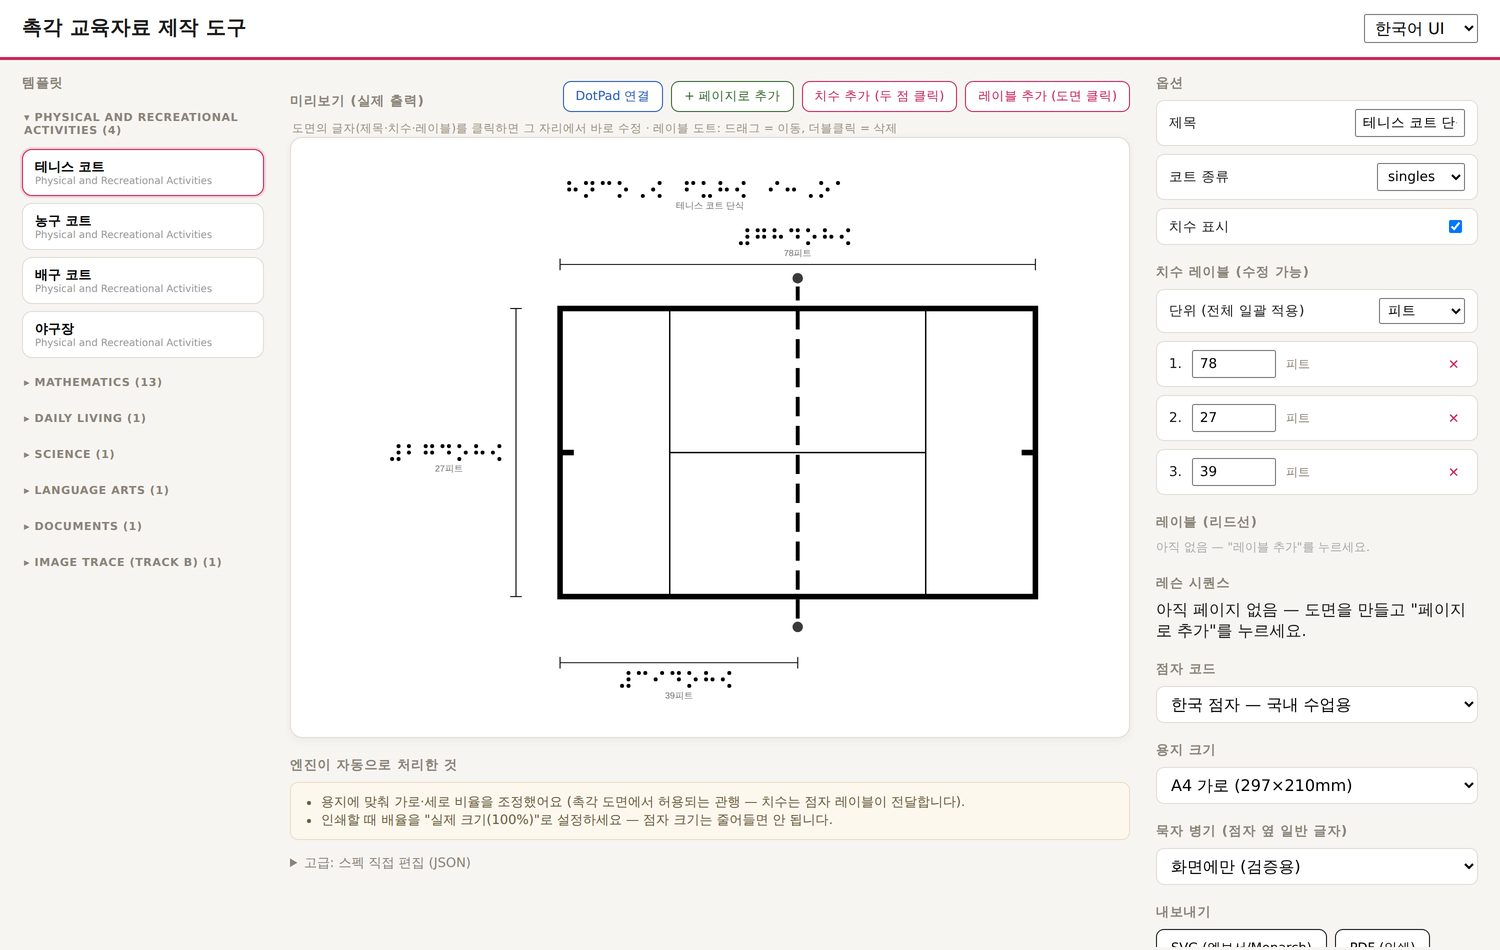
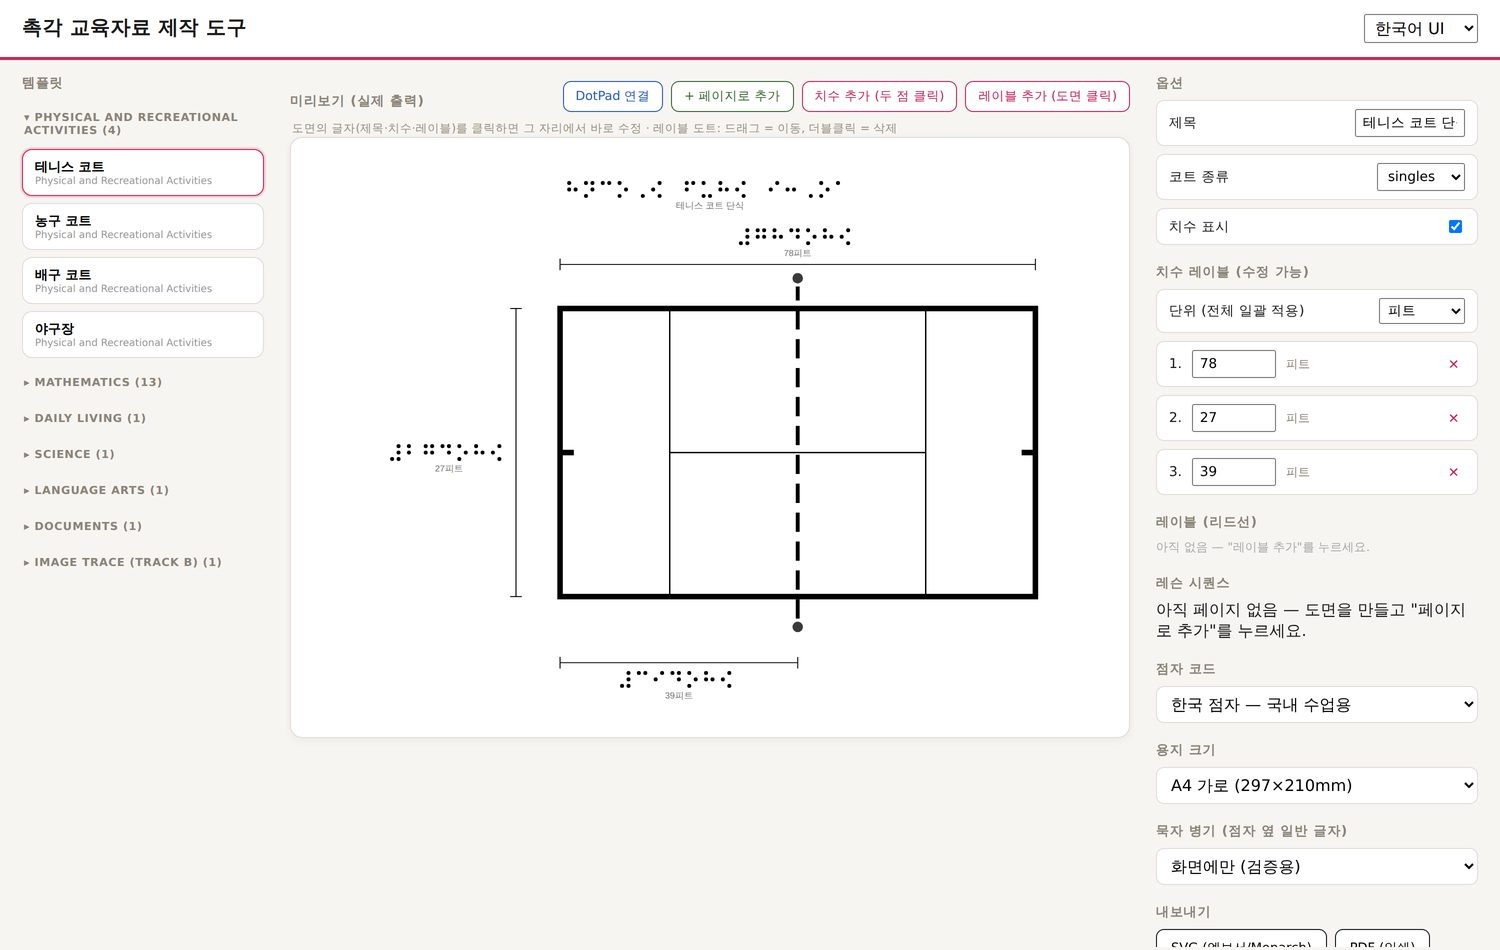
UI 정리 — 보고서·JSON 편집 패널 숨김, 문서 변환기 드래그&드롭
"엔진이 자동으로 처리한 것"과 "고급: 스펙 직접 편집(JSON)"을 화면에서 제거(내부 상태 저장소와 자동화 검증용으로 DOM에는 숨겨 유지 — 내보내기·테스트 경로 무변경). 점자 문서 변환기는 미리보기에 PDF·Word·JSON 파일을 끌어다 놓으면 바로 변환된다(파란 점선 하이라이트, 다른 템플릿에서는 비활성). 가이드 KO/EN 캡처를 새 화면으로 갱신, test/ui-cleanup-check.js 추가.

Claude-Session: https://claude.ai/code/session_016zMazn2pgWpep9VoyYXci8

Changed region(s): [[0.184, 0.7937, 0.644, 0.9158]]

diff --git a/app/app.js b/app/app.js
@@ -62,7 +62,8 @@
       printTip: 'When printing: set scale to "Actual size (100%)" — braille size must not shrink.',
       loaded: 'Loaded spec file — template options are disabled; labels & exports still work.',
       rbUpload: 'Rulebook JSON', rbSample: 'Load built-in sample (Arabic, 709 symbols)',
-      rbLoaded: 'Loaded: ', rbHint: 'Upload a table-format rulebook (PDF, Word, or verified JSON) → UEB-style narrative document. Braille is selectable text (embedded font). For HWP files: open in Hangul → Save As → Word (.docx), then upload.',
+      rbLoaded: 'Loaded: ', rbHint: 'Drag a table-format rulebook here (PDF, Word, or verified JSON) — or use the file picker on the right. → UEB-style narrative document with selectable braille text (embedded font). For HWP files: open in Hangul → Save As → Word (.docx) first.',
+      rbDropType: 'Only .pdf, .docx, or .json files can be converted.',
       docx: 'Word (.docx)',
       ebrl: 'eBraille (.ebrl)',
       dpBtn: 'Connect DotPad', dpConnected: 'DotPad ● {n}',
@@ -104,7 +105,8 @@
       printTip: '인쇄할 때 배율을 "실제 크기(100%)"로 설정하세요 — 점자 크기는 줄어들면 안 됩니다.',
       loaded: '스펙 파일을 불러왔습니다 — 템플릿 옵션은 비활성, 레이블·내보내기는 그대로 사용 가능.',
       rbUpload: '규정집 JSON', rbSample: '내장 샘플 불러오기 (아랍어 709 기호)',
-      rbLoaded: '불러옴: ', rbHint: '표 형식 규정집(PDF·Word·검증된 JSON) → UEB 스타일 서술형 문서. 점자는 선택·복사 가능한 텍스트(폰트 내장). hwp는 한글에서 "다른 이름으로 저장 → Word(.docx)" 후 업로드하세요.',
+      rbLoaded: '불러옴: ', rbHint: '표 형식 규정집(PDF·Word·검증된 JSON)을 여기에 끌어다 놓으세요 — 오른쪽 파일 선택으로도 됩니다. → UEB 스타일 서술형 문서로 변환되며, 점자는 선택·복사 가능한 텍스트입니다(폰트 내장). hwp는 한글에서 "다른 이름으로 저장 → Word(.docx)" 후 올리세요.',
+      rbDropType: 'PDF·Word(.docx)·JSON 파일만 변환할 수 있습니다.',
       docx: 'Word (.docx)',
       ebrl: 'eBraille (.ebrl)',
       dpBtn: 'DotPad 연결', dpConnected: 'DotPad ● {n}대',
@@ -177,6 +179,27 @@
     $('#preview').addEventListener('click', onPreviewClick);
     $('#preview').addEventListener('dblclick', onPreviewDblClick);
     $('#preview').addEventListener('mousedown', onDragStart);
+    // 문서 변환기: 미리보기에 파일을 끌어다 놓으면 바로 변환 (PDF·Word·JSON)
+    ['dragover', 'dragenter'].forEach(function (ev) {
+      $('#preview').addEventListener(ev, function (e) {
+        if (state.tpl !== RULEBOOK_TPL) return;
+        e.preventDefault(); e.stopPropagation();
+        e.dataTransfer.dropEffect = 'copy';
+        $('#preview').classList.add('dropping');
+      });
+    });
+    ['dragleave', 'dragend'].forEach(function (ev) {
+      $('#preview').addEventListener(ev, function () { $('#preview').classList.remove('dropping'); });
+    });
+    $('#preview').addEventListener('drop', function (e) {
+      if (state.tpl !== RULEBOOK_TPL) return;
+      e.preventDefault(); e.stopPropagation();
+      $('#preview').classList.remove('dropping');
+      var f = e.dataTransfer.files && e.dataTransfer.files[0];
+      if (!f) return;
+      if (!/\.(json|pdf|docx)$/i.test(f.name)) { alert(t('rbDropType')); return; }
+      rbHandleFile(f);
+    });
     window.addEventListener('mousemove', onDragMove);
     window.addEventListener('mouseup', onDragEnd);
     window.addEventListener('resize', function () { dpOverlay(); });
@@ -684,17 +707,7 @@
       var rf = document.createElement('input'); rf.type = 'file';
       rf.accept = '.json,.pdf,.docx,application/json,application/pdf';
       rf.addEventListener('change', function (ev) {
-        var file = ev.target.files[0]; if (!file) return;
-        var lower = file.name.toLowerCase();
-        state.rbFixes = {}; state.rbFixId = null;
-        if (lower.endsWith('.pdf')) return loadRbPdf(file);
-        if (lower.endsWith('.docx')) return loadRbDocx(file);
-        var fr = new FileReader();
-        fr.onload = function () {
-          try { state.rbData = JSON.parse(fr.result); state.rbName = file.name; state.rbParseReport = null; update(); }
-          catch (e) { alert('JSON error: ' + e.message); }
-        };
-        fr.readAsText(file);
+        if (ev.target.files[0]) rbHandleFile(ev.target.files[0]);
       });
       ru.appendChild(rf); f.appendChild(ru);
       if (typeof window !== 'undefined' && window.RB_SAMPLE) {
@@ -799,6 +812,20 @@
   }
 
   /* PDF → 텍스트 아이템(x,y,w) → 파서 (파싱은 베타: 리포트로 검토 유도) */
+  /* 규정집 파일 공통 처리 — 파일 선택 창과 미리보기 드래그&드롭이 같은 경로를 쓴다 */
+  function rbHandleFile(file) {
+    var lower = file.name.toLowerCase();
+    state.rbFixes = {}; state.rbFixId = null;
+    if (lower.endsWith('.pdf')) return loadRbPdf(file);
+    if (lower.endsWith('.docx')) return loadRbDocx(file);
+    var fr = new FileReader();
+    fr.onload = function () {
+      try { state.rbData = JSON.parse(fr.result); state.rbName = file.name; state.rbParseReport = null; update(); }
+      catch (e) { alert('JSON error: ' + e.message); }
+    };
+    fr.readAsText(file);
+  }
+
   function loadRbPdf(file) {
     var fr = new FileReader();
     fr.onload = function () {

diff --git a/test/ui-cleanup-check.js b/test/ui-cleanup-check.js
@@ -1,0 +1,72 @@
+/* UI 정리 검증: 개발자용 패널 숨김 + 문서 변환기 드래그&드롭 */
+const path = require('path');
+const { chromium } = require('/home/claude/.npm-global/lib/node_modules/playwright');
+const DIST = 'file://' + path.resolve(__dirname, '../dist/tactile-material-maker-ko.html');
+
+let pass = 0, fail = 0;
+const ok = (n, c, x) => { if (c) { pass++; console.log('  ✔', n); } else { fail++; console.log('  ✘', n, x !== undefined ? '→ ' + x : ''); } };
+const sleep = ms => new Promise(r => setTimeout(r, ms));
+
+(async () => {
+  const browser = await chromium.launch();
+  const page = await browser.newPage({ viewport: { width: 1500, height: 950 } });
+  page.on('pageerror', e => console.log('  [pageerror]', e.message));
+  await page.goto(DIST);
+  await page.waitForSelector('#gallery .gcat');
+  await sleep(500);
+
+  // 1. 보고서·JSON 편집 패널이 화면에서 보이지 않는다 (내부 상태 저장용으로만 존재)
+  const hidden = await page.evaluate(() => {
+    const vis = id => { const el = document.getElementById(id); return !!el && el.offsetParent !== null; };
+    return {
+      report: vis('report'), hRep: vis('h-report'), json: vis('json'), apply: vis('applyJson'),
+      jsonAlive: !!document.querySelector('#json').value   // 스펙 저장소로는 계속 동작해야 한다
+    };
+  });
+  ok('report / advanced-JSON panel hidden from the page',
+    !hidden.report && !hidden.hRep && !hidden.json && !hidden.apply, JSON.stringify(hidden));
+  ok('hidden #json still carries the spec (exports/tests unaffected)', hidden.jsonAlive);
+
+  // 2. 문서 변환기: 미리보기에 파일을 드롭하면 변환된다
+  await page.click('#gallery .gcat:has-text("Documents")');
+  await page.click('#gallery .card:has-text("점자 문서 변환기"), #gallery .card:has-text("Braille Document Converter")');
+  await sleep(400);
+  const hint = await page.evaluate(() => document.querySelector('#preview').textContent);
+  ok('empty state invites drag & drop', /끌어다|Drag/i.test(hint), hint.slice(0, 60));
+
+  const drop = await page.evaluate(async () => {
+    const sample = new File([JSON.stringify(window.RB_SAMPLE)], 'drop-test.json', { type: 'application/json' });
+    const dt = new DataTransfer();
+    dt.items.add(sample);
+    const pv = document.querySelector('#preview');
+    pv.dispatchEvent(new DragEvent('dragover', { bubbles: true, cancelable: true, dataTransfer: dt }));
+    const highlighted = pv.classList.contains('dropping');
+    pv.dispatchEvent(new DragEvent('drop', { bubbles: true, cancelable: true, dataTransfer: dt }));
+    await new Promise(r => setTimeout(r, 1500));
+    return {
+      highlighted,
+      cleared: !pv.classList.contains('dropping'),
+      converted: !!document.querySelector('#rbFrame'),
+      name: (window.__appState && window.__appState().rbName) || null
+    };
+  });
+  ok('dragover highlights the drop zone', drop.highlighted);
+  ok('drop converts the file (rulebook renders)', drop.converted && drop.cleared, JSON.stringify(drop));
+
+  // 3. 다른 템플릿에서는 드롭이 아무 것도 하지 않는다 (오조작 방지)
+  await page.click('#gallery .gcat:has-text("Mathematics")');
+  await page.click('#gallery .card:has-text("수직선"), #gallery .card:has-text("Number Line")');
+  await sleep(400);
+  const other = await page.evaluate(() => {
+    const dt = new DataTransfer();
+    dt.items.add(new File(['{}'], 'x.json', { type: 'application/json' }));
+    const pv = document.querySelector('#preview');
+    pv.dispatchEvent(new DragEvent('dragover', { bubbles: true, cancelable: true, dataTransfer: dt }));
+    return { highlighted: pv.classList.contains('dropping'), svg: !!pv.querySelector('svg') };
+  });
+  ok('drop zone inactive outside the converter', !other.highlighted && other.svg, JSON.stringify(other));
+
+  await browser.close();
+  console.log(`\n결과: ${pass} 통과 / ${fail} 실패`);
+  process.exit(fail ? 1 : 0);
+})().catch(e => { console.error(e); process.exit(1); });

diff --git a/app/shell.html b/app/shell.html
@@ -31,6 +31,7 @@ h2{font-size:13px;text-transform:uppercase;letter-spacing:.8px;color:#8a8378;mar
 #dimForm{display:flex;flex-direction:column;gap:8px}
 .hint{font-size:11.5px;color:#9a917f;line-height:1.5;padding:2px 2px 0}
 #preview{position:relative;background:#fff;border:1px solid var(--line);border-radius:12px;padding:10px;box-shadow:0 2px 10px rgba(0,0,0,.05);overflow:hidden}
+#preview.dropping{outline:3px dashed #1565c0;outline-offset:-8px;background:#f3f7ff}
 /* DotPad 기기 화면 범위 (연결 시) */
 #dpVp{position:absolute;display:none;pointer-events:none;border:2px solid #2b5db8;border-radius:3px;
   background:rgba(43,93,184,.07);box-shadow:0 0 0 9999px rgba(255,255,255,.45);
@@ -104,13 +105,16 @@ summary{cursor:pointer;font-size:13px;color:#8a8378}
       <input id="labelInput" type="text" autocomplete="off">
       <select id="unitSel"><option value="">—</option><option value="mm">mm</option><option value="cm" selected>cm</option><option value="m">m</option><option value="ft">ft</option><option value="in">in</option></select>
     </span>
-    <h2 id="h-report"></h2>
-    <ul id="report"></ul>
-    <details>
-      <summary id="h-advanced"></summary>
-      <textarea id="json" spellcheck="false"></textarea>
-      <button id="applyJson"></button>
-    </details>
+    <!-- 내부 상태 저장·자동화 검증용 — 화면에는 표시하지 않는다 -->
+    <div id="devPanel" style="display:none" aria-hidden="true">
+      <h2 id="h-report"></h2>
+      <ul id="report"></ul>
+      <details>
+        <summary id="h-advanced"></summary>
+        <textarea id="json" spellcheck="false"></textarea>
+        <button id="applyJson"></button>
+      </details>
+    </div>
   </section>
   <aside id="rightcol">
     <h2 id="h-options"></h2>
